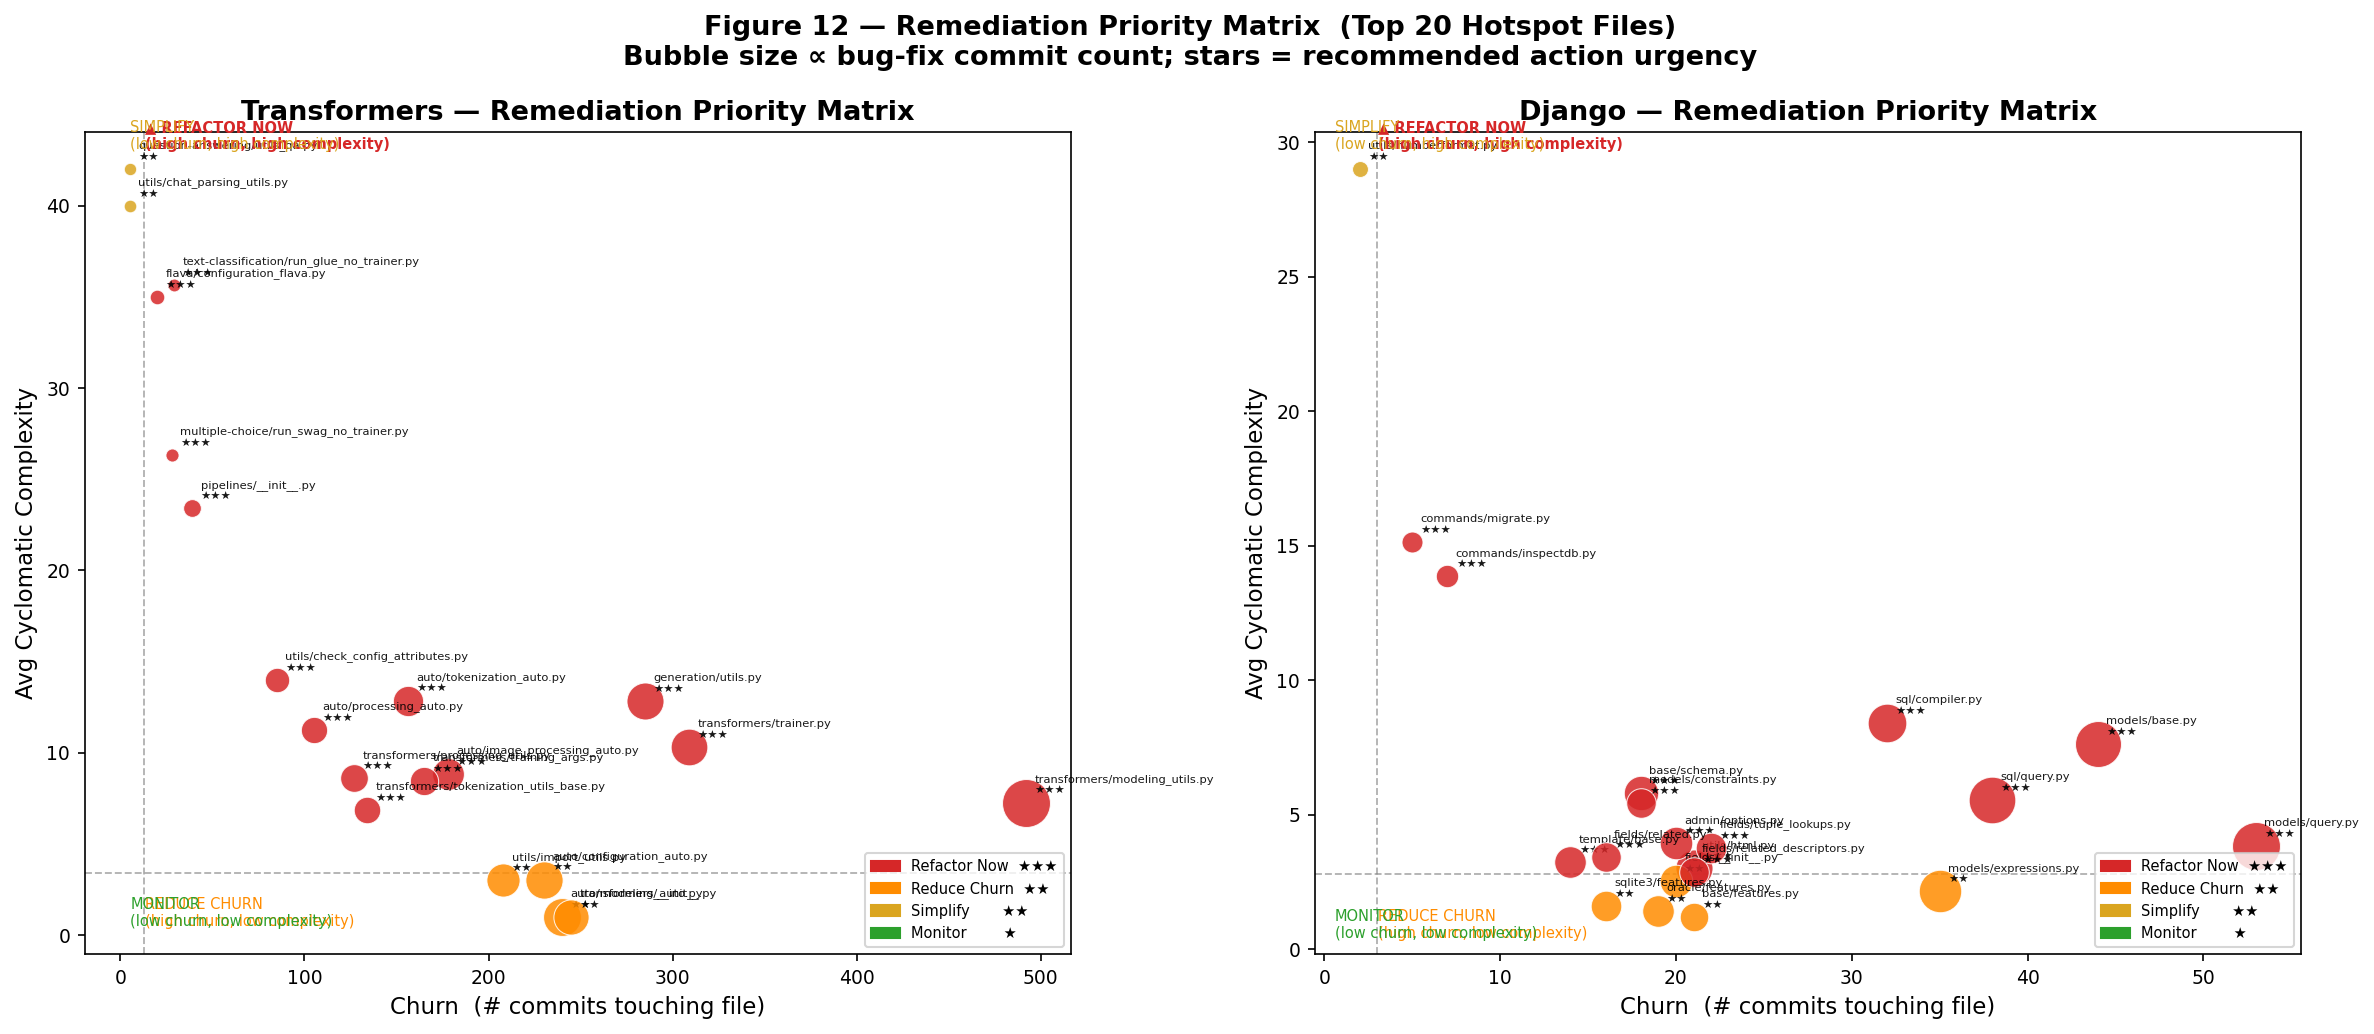
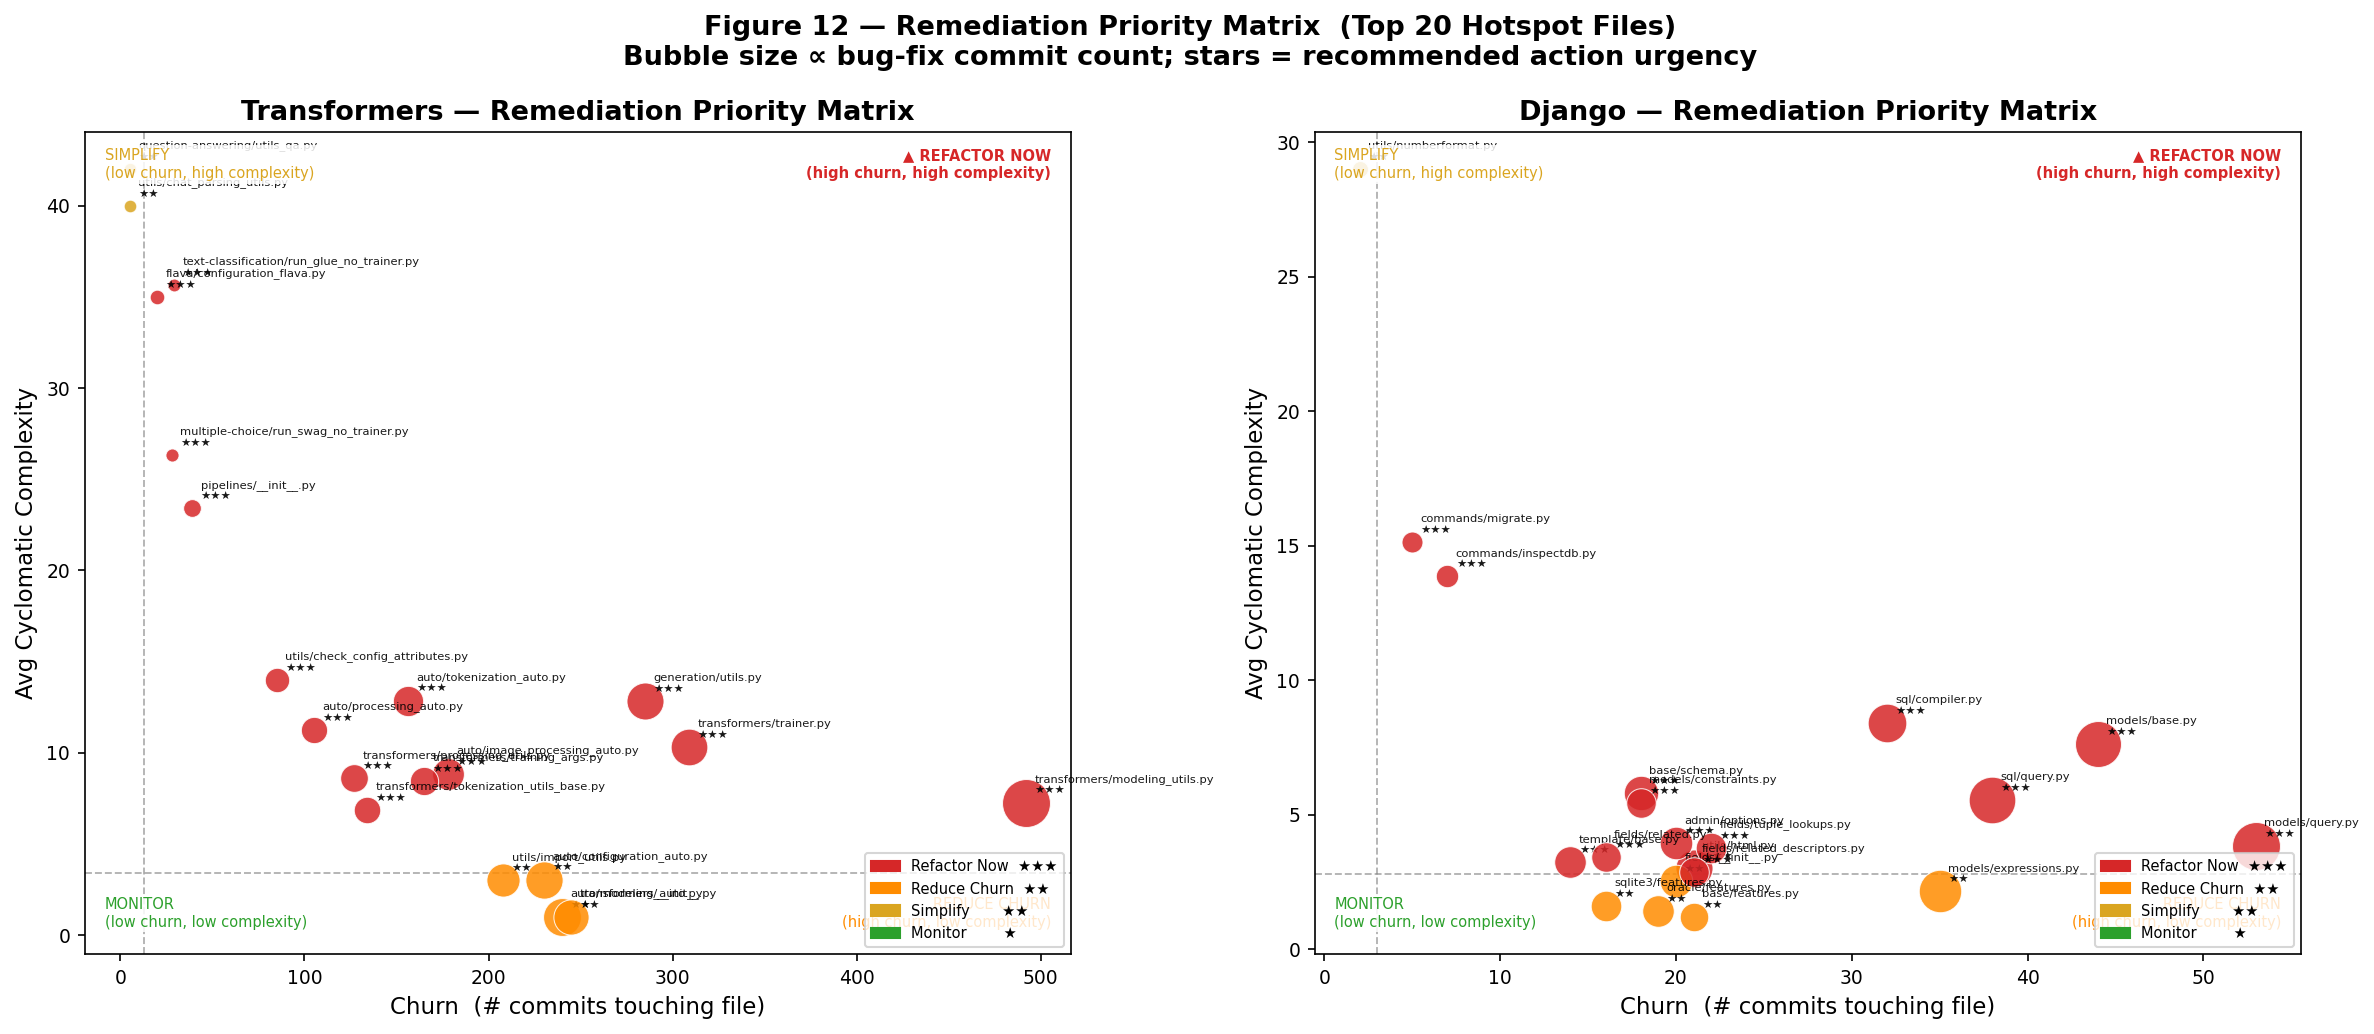
plot fix

diff --git a/generate_plots.py b/generate_plots.py
@@ -601,37 +601,53 @@ def priority_matrix(ax, df, color, title, n=20):
     ax.axvline(med_c, color="grey", lw=0.9, ls="--", alpha=0.6)
     ax.axhline(med_x, color="grey", lw=0.9, ls="--", alpha=0.6)
 
-    # Quadrant labels
-    xmax = top["churn"].max() * 1.1
-    ymax = top["avg_complexity"].max() * 1.08
+    # Keep quadrant headers pinned to the corners so they don't collide when
+    # medians fall close to the plot edge.
+    label_box = {"facecolor": "white", "edgecolor": "none", "alpha": 0.85, "pad": 1.5}
     ax.text(
-        med_c * 1.02,
-        ymax * 0.95,
+        0.02,
+        0.98,
+        "SIMPLIFY\n(low churn, high complexity)",
+        transform=ax.transAxes,
+        ha="left",
+        va="top",
+        color="goldenrod",
+        fontsize=7,
+        bbox=label_box,
+    )
+    ax.text(
+        0.98,
+        0.98,
         "▲ REFACTOR NOW\n(high churn, high complexity)",
+        transform=ax.transAxes,
+        ha="right",
+        va="top",
         color=C_RISK,
         fontsize=7,
         fontweight="bold",
+        bbox=label_box,
     )
     ax.text(
-        0.01 * xmax,
-        ymax * 0.95,
-        "SIMPLIFY\n(low churn, high complexity)",
-        color="goldenrod",
-        fontsize=7,
-    )
-    ax.text(
-        med_c * 1.02,
-        med_x * 0.15,
+        0.98,
+        0.03,
         "REDUCE CHURN\n(high churn, low complexity)",
+        transform=ax.transAxes,
+        ha="right",
+        va="bottom",
         color="darkorange",
         fontsize=7,
+        bbox=label_box,
     )
     ax.text(
-        0.01 * xmax,
-        med_x * 0.15,
+        0.02,
+        0.03,
         "MONITOR\n(low churn, low complexity)",
+        transform=ax.transAxes,
+        ha="left",
+        va="bottom",
         color=C_SAFE,
         fontsize=7,
+        bbox=label_box,
     )
 
     legend_elements = [
